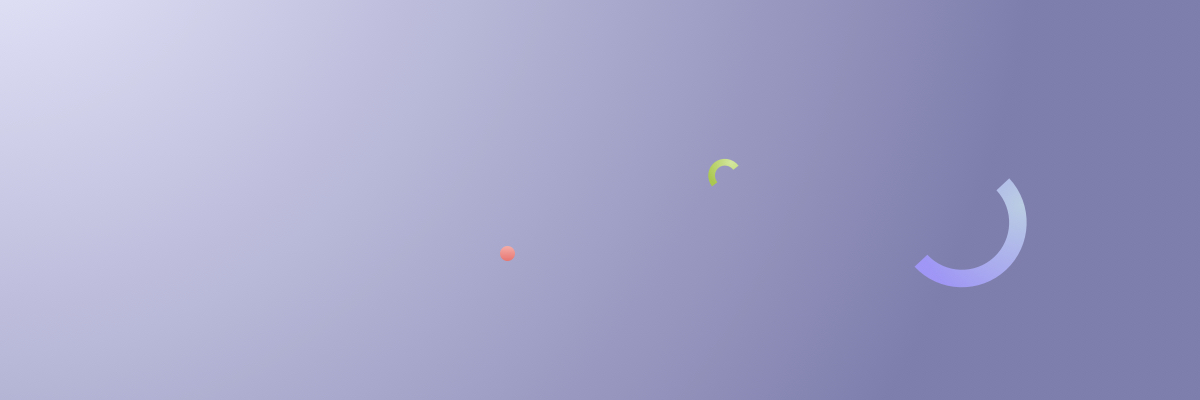
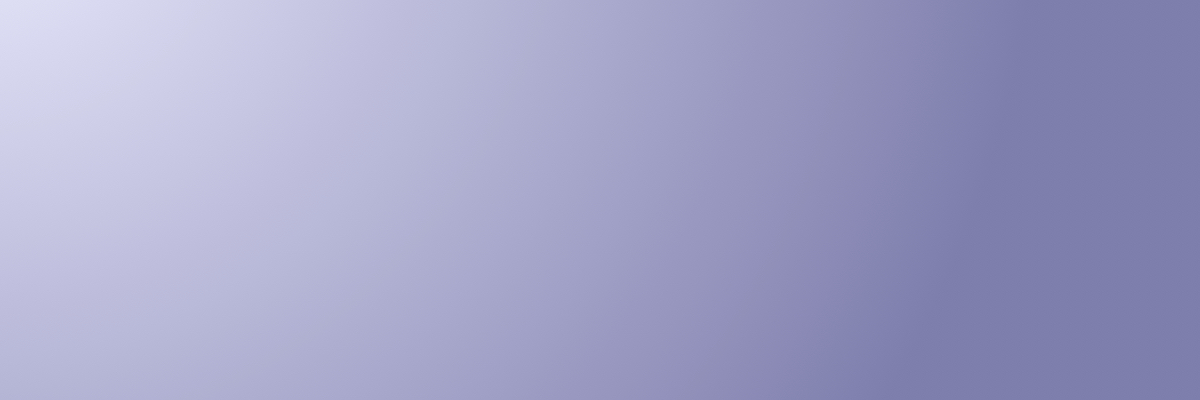
purple shape added to hero section on index.html

Changed region(s): [[0.74, 0.45, 0.8633, 0.72], [0.5858, 0.39, 0.6167, 0.45], [0.4008, 0.6, 0.4317, 0.66]]

diff --git a/css/style.css b/css/style.css
@@ -113,7 +113,7 @@ p {
 }
 
 #hero {
-  padding-top: 2%;
+  padding-top: 3%;
   padding-bottom: 4%;
 }
 
@@ -422,6 +422,15 @@ footer {
   background-color: #D7D7FE;
 }
 
+
+
+.herobackground {
+  background: url(../img/fun/purple-shape.jpg);
+  background-repeat: no-repeat;
+  background-size: cover;
+  background-position: center;
+
+}
 /* ---------FOOTER BACKGROUND IMAGE STARTS----------------------------- */
 .boxfooter {
   background: url(../img/fun/gradient-footer.jpg);
@@ -429,7 +438,6 @@ footer {
   background-size: cover;
   background-position: center;
 }
-
 /* ---------FOOTER BACKGROUND IMAGE ENDS----------------------------- */
 #contact {
   text-align: center;
@@ -609,6 +617,13 @@ footer a:hover {
     padding-right: 0;
   }
 
+  .herobackground {
+    background: url(../img/fun/purple-shape.jpg);
+    background-repeat: no-repeat;
+    background-position: center;
+  }
+
+
   .profile-pic-container {
     min-width: 35%;
     padding: 20px;
@@ -665,6 +680,12 @@ footer a:hover {
     right: 0;
     top: 15px;
     padding-right: 0;
+  }
+
+  .herobackground {
+    background: url(../img/fun/purple-shape.jpg);
+    background-repeat: no-repeat;
+    background-position: center;
   }
 
   .boxabout {
@@ -751,6 +772,12 @@ footer a:hover {
     text-align: unset;
     border-bottom: 4px solid #000000;
     display: inline-block;
+  }
+
+  .herobackground {
+    background: url(../img/fun/purple-shape-500.jpg);
+    background-repeat: no-repeat;
+    background-position: center;
   }
 
   nav {
@@ -846,6 +873,11 @@ footer a:hover {
     border-bottom: 4px solid #000000;
     display: inline-block;
   }
+
+  .herobackground {
+    background: url(../img/fun/purple-shape-500.jpg);
+    background-repeat: no-repeat;
+    background-position: center;
 
   main {
     margin: 0 auto;

diff --git a/index.html b/index.html
@@ -32,8 +32,7 @@
 <!-- Header ends -->
 <!-- Header ends -->
 <main>
-  <div id="hero">
-    <div class="container">
+  <div id="hero" class="herobackground">
       <div class="box">
         <h1>NATHALIE MCCUBBIN</h1>
         <h4>Hi there! I’m a<span style="color:#000000;font-weight:bold;"> UI & VISUAL DESIGNER </span>based in Berlin, Germany.
@@ -42,7 +41,6 @@
         </h4>
       </div>
     </div>
-  </div>
   <!-- Project displayed in rows. 2 cards in a row. -->
   <div class="projects">
     <div class="row">
